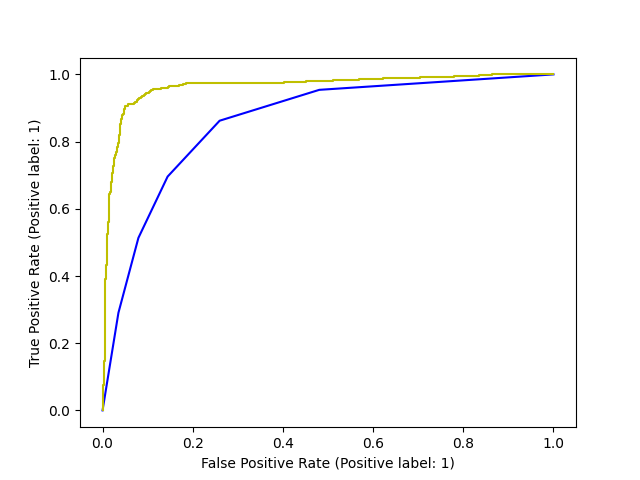
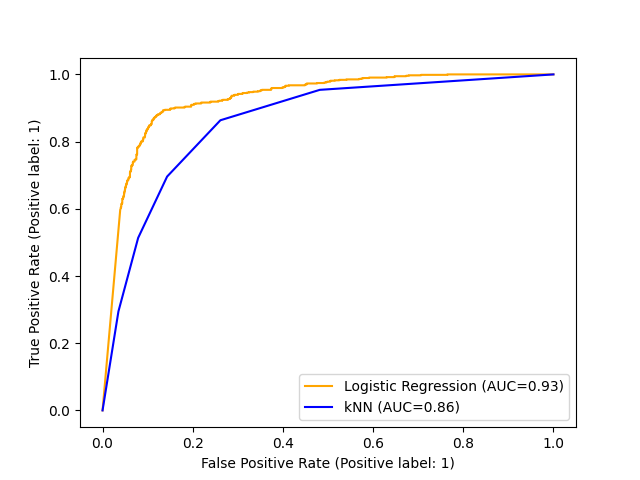
fix(lg): rewrite algo

diff --git a/src/hw3/logistic_regression.py b/src/hw3/logistic_regression.py
@@ -5,44 +5,36 @@ from dataclasses import dataclass
 @dataclass
 class LogisticRegression:
     learning_rate: float = 0.1
-    num_iterations: int = 1000
+    max_iterations: int = 1000
     theta = None
 
     def fit(self, X, y):
         self.theta = np.zeros(X.shape[1])
-        self.theta = gradient_descent(
-            X, y, self.theta, self.learning_rate, self.num_iterations
-        )
+        self.gradient_descent(X, y)
 
-    def predict(self, X_test):
-        return logistic_regression(self.theta, X_test)
+    def predict_proba(self, X):
+        z = np.dot(X, self.theta)
+        return self.sigmoid(z)
 
+    def predict(self, X, threshold=0.5):
+        probabilities = self.predict_proba(X)
+        predictions = (probabilities >= threshold).astype(int)
+        return predictions
 
-def sigmoid(z):
-    return 1 / (1 + np.exp(-z))
+    def gradient_descent(self, X, y):
+        data_len, feat_num = X.shape
+        self.theta = np.zeros(feat_num)
 
+        for _ in range(self.max_iterations):
+            z = np.dot(X, self.theta)
+            h = self.sigmoid(z)
+            gradient = np.dot(X.T, (h - y)) / data_len
+            self.theta -= self.learning_rate * gradient
 
-def logistic_regression(theta, X):
-    return sigmoid(np.dot(X, theta))
+    def sigmoid(self, z):
+        return 1 / (1 + np.exp(-z))
 
-
-def cost_function(Y_real, Y_pred):
-    data_len = len(Y_real)
-    return -1 / data_len * np.sum(Y_real * np.log(Y_pred) + (1 - Y_real) * np.log(1 - Y_pred)) 
-
-
-
-def gradient_descent(X, Y, theta, learning_rate, num_iterations):
-    m = len(Y)
-    for iteration in range(num_iterations):
-        Y_pred = logistic_regression(theta, X)
-
-        gradient = np.dot(X.T, (Y_pred - Y)) / m
-
-        theta -= learning_rate * gradient
-
-        cost = cost_function(Y, Y_pred)
-
-    return theta
-
+    def compute_loss(self, y, h):
+        epsilon = 1e-15
+        return -np.mean(y * np.log(h + epsilon) + (1 - y) * np.log(1 - h + epsilon))
 

diff --git a/src/hw3/q2-5.py b/src/hw3/q2-5.py
@@ -20,8 +20,8 @@ def main():
     plt.xlabel("False Positive Rate (Positive label: 1)")
     plt.ylabel("True Positive Rate (Positive label: 1)")
 
-    knn(train_data, test_data)
     lg(train_data, test_data)
+    knn(train_data, test_data)
 
     plt.legend(loc="lower right")
     plt.show()
@@ -36,7 +36,7 @@ def knn(train_data, test_data):
     X_test = test_data[:, 0:-1]
     Y_real = test_data[:, -1].flat
 
-    Y_prob = knn.predict_proba(X_test, 1)[:, 1]
+    Y_prob = knn.predict_proba(X_test, 1)
     fpr, tpr, thresholds = met.roc_curve(Y_real, Y_prob)
     auc = met.auc(fpr, tpr)
 
@@ -44,14 +44,14 @@ def knn(train_data, test_data):
 
 def lg(train_data, test_data):
     X_train = train_data[:, 0:-1]
-    Y_train = train_data[:, -1].flat
-    lg = LogisticRegression(num_iterations=100)
+    Y_train = train_data[:, -1].flatten()
+    lg = LogisticRegression(max_iterations=1000)
     lg.fit(X_train, Y_train)
 
     X_test = test_data[:, 0:-1]
-    Y_real = test_data[:, -1].flat
+    Y_real = test_data[:, -1].flatten()
 
-    Y_prob = lg.predict_proba(X_test)[:, 1]
+    Y_prob = lg.predict_proba(X_test)
     fpr, tpr, thresholds = met.roc_curve(Y_real, Y_prob)
     auc = met.auc(fpr, tpr)
 

diff --git a/doc/hw3.tex b/doc/hw3.tex
@@ -516,7 +516,7 @@ Use this latex file as a template to develop your homework. Submit your homework
 		      Test Set: Email 2501-5000 \\
 		      \begin{figure}[h!]
 			      \centering
-			      \includegraphics[width=0.7\textwidth]{../img/q2-5-ski.png}
+			      \includegraphics[width=0.7\textwidth]{../img/q2-5.png}
 		      \end{figure}
 	      \end{soln}
 

diff --git a/src/hw3/knn.py b/src/hw3/knn.py
@@ -33,7 +33,7 @@ class KNN:
             class_probabilities[label] = count / total_neighbors
 
         if not (target_label in class_probabilities):
-            raise Exception("target_label do not exist")
+            return 0
 
         return class_probabilities[target_label]
 
